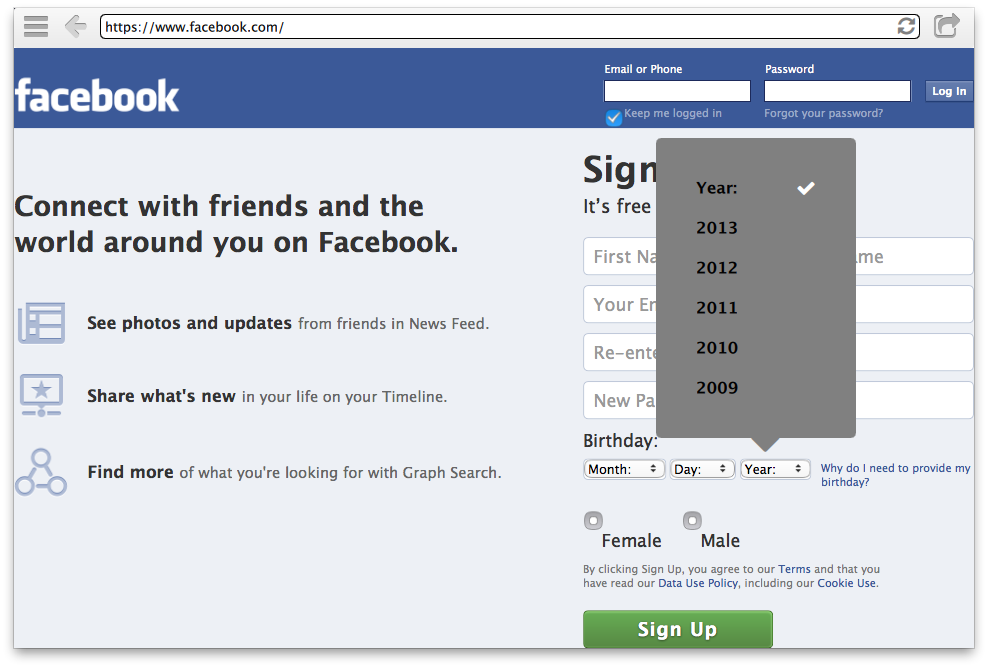
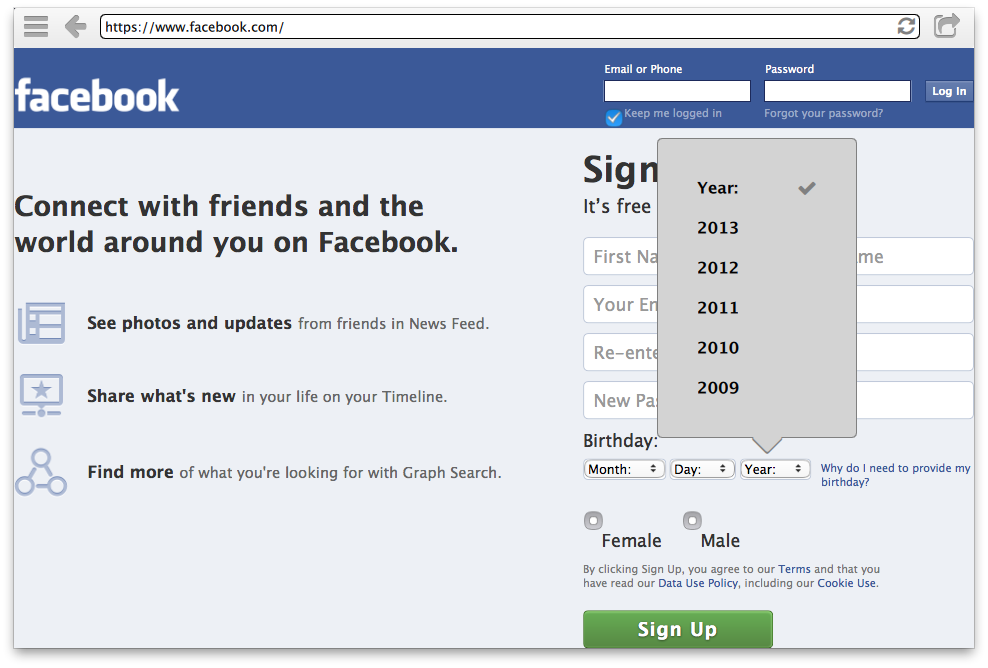
Adjust dialog borders

Changed region(s): [[0.6377, 0.2096, 0.8806, 0.6886], [0.0607, 0.0299, 0.0911, 0.0599]]

diff --git a/Shell/qml/Shell.qml b/Shell/qml/Shell.qml
@@ -209,11 +209,13 @@ Item {
                     popoverDialog.y = Y + 30 // too high, popover down 
                     popoverCaret.anchors.top = popoverDialog.top;
                     popoverCaret.anchors.topMargin = -32
+                    popoverInnerCaret.anchors.topMargin = 3 
                     popoverCaret.text = "\uF0D8"
                 } else { 
                     popoverDialog.y = Y - popoverDialog.height - 40; // move up 
                     popoverCaret.anchors.top = popoverDialog.bottom;
                     popoverCaret.anchors.topMargin = -20
+                    popoverInnerCaret.anchors.topMargin = 0 
                     popoverCaret.text = "\uF0D7"
                 }
             }
@@ -268,18 +270,29 @@ Item {
 
                 width: 200
                 height: 300
-                color: "gray"
+                color: "lightgray"
+                border.width: 1 
+                border.color: "gray"
                 radius: 5
                 Text { 
                     id: popoverCaret
                     anchors { margins: 20 }
                     color: "gray" 
-                    font { family: fontAwesome.name; pointSize: 50 } 
+                    font { family: fontAwesome.name; pointSize: 53 } 
+                    Text { 
+                        id: popoverInnerCaret
+                        anchors.fill: parent
+                        anchors.leftMargin: 1
+                        text: popoverCaret.text
+                        color: "lightgray"
+                        font { family: fontAwesome.name; pointSize: 50}
+                    }
                 }
                 ListView {
                     id: popoverListView
                     anchors.fill: parent
                     anchors.margins: 40
+                    anchors.leftMargin: 20 
                     model: popoverModel 
                     ListModel { id: popoverModel }
                     delegate: Rectangle {
@@ -304,10 +317,10 @@ Item {
                             }
                         }
                     }
-                    highlight: Text { 
-                        color: "white"; text: "\uF00C"; anchors.right: parent.right 
-                        font { family: fontAwesome.name; pointSize: 20 }
-                    }
+                    //highlight: Text { 
+                    //    color: "gray"; text: "\uF00C"; anchors.right: parent.right 
+                    //    font { family: fontAwesome.name; pointSize: 20 }
+                    //}
                 }
             }
         }
@@ -579,6 +592,8 @@ Item {
             visible: (urlText.focus && historyModel.count > 0)
             color: "lightgray"
             radius: 5 
+            border.width: 1
+            border.color: "gray"
             width: parent.width - 180
             height: (historyModel.count > 3) ? ((historyModel.count * 40 < 550) ? historyModel.count * 40 : 550) : 120
             anchors { top: parent.top; topMargin: 50; left: parent.left; leftMargin: 100; }
@@ -589,9 +604,17 @@ Item {
                 anchors.topMargin: -34
                 anchors.left: parent.horizontalCenter
                 anchors.leftMargin: -30
-                font { family: fontAwesome.name; pointSize: 50 }
+                font { family: fontAwesome.name; pointSize: 53 }
                 text: "\uF0D8"; 
-                color: "lightgray" 
+                color: "gray" 
+                Text {
+                    text: parent.text 
+                    color: "lightgray"
+                    anchors.fill: parent
+                    anchors.margins: 1 
+                    anchors.topMargin: 3
+                    font { family: fontAwesome.name; pointSize: 50 }
+                }
             }
 
             ListView { 

diff --git a/Shell/README.md b/Shell/README.md
@@ -1,7 +1,7 @@
 # SlateKit Shell
 Qt5/QML WebKit Browser with Sliding Drawer UI 
 
-> ![Drawer](https://raw.github.com/penk/SlateKit/master/Shell/screenshot.png)
+![Drawer](https://raw.github.com/penk/SlateKit/master/Shell/screenshot.png)
 
 ## Features 
 
